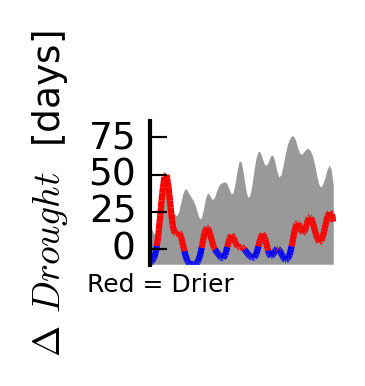
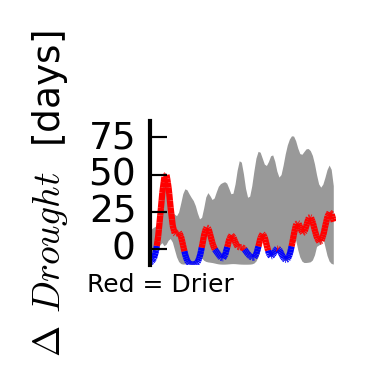
update for water deficit

Changed region(s): [[0.6932, 0.6218, 0.9041, 0.6839], [0.4219, 0.6218, 0.5123, 0.6839], [0.5425, 0.6528, 0.5726, 0.6839]]

diff --git a/maplot.py b/maplot.py
@@ -288,7 +288,7 @@ def get_data():
     SimulatedHistoric = {
             'Reference':                '_HistoricRef_Run0',
             'HighClim':                 '_HistoricHadGEM_Run0',
-            'LowClim':                  '_HistoricGFDL_Run0',
+            'LowClim':                  '_HistoricRef_Run0'          # !!Change to _HistoricGFDL_Run0 once GFDL historical is fixed
             }
     return data, scenarios, scenarios_own, SimulatedHistoric
 
@@ -765,8 +765,7 @@ for plot_num in plots_to_plot:
             Q10.update({key:[np.percentile(data_hd1[i][0:59,:], 10.,axis=0) for i in range(12)]})
             data_hd_binary = [compare_rows(data_hd1[i],Q10[key][i]) for i in range(12)]  #1's are drought
             summer_dr_d = [np.sum(data_hd_binary[i][:,260:365],1) for i in range(12)]
-            baseline.update({key:[np.mean(summer_dr_d[i]) for i in range(12)]})
-        
+            baseline.update({key:[np.mean(summer_dr_d[i]) for i in range(12)]})  
         
         data_to_stack = []
         for key in scenarios:
@@ -820,7 +819,6 @@ for plot_num in plots_to_plot:
         file_ex = data_path + 'ET_by_Elevation_(mm)'+file_baseline+'Run0.csv' # Need average for whole WB, in different file
         # Calculate Baseline
         baseline = {}
-        ## WORKING HERE
         for key in SimulatedHistoric:
             data_ET=[mfx(file_nm.replace(file_baseline+'Run0',SimulatedHistoric[key]), column=subbasin_data_ET_col[i], 
                          skip=cst.day_of_year_oct1) for i in range(12)]
@@ -832,49 +830,8 @@ for plot_num in plots_to_plot:
                          skip=cst.day_of_year_oct1)
             data_hd1 = [data_PET[i] - data_ET[i] for i in range(12)]
             wd1 = [np.sum(data_hd1[i][:,:],1) for i in range(12)]
-            baseline = [np.ones(59)*np.average(wd1[i]) for i in range(12)]
-            wd1_smthd = [np.subtract(movingaverage(wd1[i],window), baseline[i])[8:83] for i in range(12)]
-            data_to_stack.append([wd1_smthd[i] for i in range(12)]) 
-
-
-        data_ET  =[mfx(file_nm, column=subbasin_data_ET_col[i], skip=cst.day_of_year_oct1) for i in range(12)]
-        data_PET =[mfx(file_nm, column=subbasin_data_ET_col[i]+1, skip=cst.day_of_year_oct1) for i in range(12)]
-        data_ET[11]  = mfx(file_ex, column=1, skip=cst.day_of_year_oct1)   # Need average for whole WB, in different file
-        data_PET[11] = mfx(file_ex, column=2, skip=cst.day_of_year_oct1)   # Need average for whole WB, in different file
-        data_hd1 = [data_PET[i] - data_ET[i] for i in range(12)]
-        wd1 = [np.sum(data_hd1[i][:,:],1) for i in range(12)]
-        
-        print file_nm.replace(file_baseline,file_high)
-        data_ET=[mfx(file_nm.replace(file_baseline,file_high), column=subbasin_data_ET_col[i], 
-                     skip=cst.day_of_year_oct1) for i in range(12)]
-        data_PET=[mfx(file_nm.replace(file_baseline,file_high), column=subbasin_data_ET_col[i]+1, 
-                     skip=cst.day_of_year_oct1) for i in range(12)]
-        data_ET[11]  = mfx(file_ex.replace(file_baseline,file_high), column=1, 
-                     skip=cst.day_of_year_oct1)   # Need average for whole WB, in different file
-        data_PET[11] = mfx(file_ex.replace(file_baseline,file_high), column=2, 
-                     skip=cst.day_of_year_oct1)   # Need average for whole WB, in different file
-        data_hd2 = [data_PET[i] - data_ET[i] for i in range(12)]
-        wd2 = [np.sum(data_hd2[i][:,:],1) for i in range(12)]
-        
-        file_nm.replace(file_baseline,file_low)
-        data_ET = [mfx(file_nm.replace(file_baseline,file_low), column=subbasin_data_ET_col[i], 
-                       skip=cst.day_of_year_oct1) for i in range(12)]
-        data_PET= [mfx(file_nm.replace(file_baseline,file_low), column=subbasin_data_ET_col[i]+1, 
-                      skip=cst.day_of_year_oct1) for i in range(12)]
-        data_ET[11]  = mfx(file_ex.replace(file_baseline,file_low), column=1, 
-                      skip=cst.day_of_year_oct1)   # Need average for whole WB, in different file
-        data_PET[11] = mfx(file_ex.replace(file_baseline,file_low), column=2, 
-                      skip=cst.day_of_year_oct1)   # Need average for whole WB, in different file
-        data_hd3 = [data_PET[i] - data_ET[i] for i in range(12)]
-        wd3 = [np.sum(data_hd3[i][:,:],1) for i in range(12)]
-        
-        data_avg = [(wd1[i] + wd2[i] + wd3[i]) /3. for i in range(12)]
-        baseline = [np.ones(89)*np.average(data_avg[i][0:10]) for i in range(12)]
+            baseline.update({key:[np.ones(89)*np.average(wd1[i]) for i in range(12)]})
                 
-        # Calculate baseline-subtracted value
-        window = binomial_window(15)
-        wd_smthd = [np.subtract(movingaverage(wd1[i],window), baseline[i])[8:83] for i in range(12)]
-        
         data_to_stack = []
         for key in scenarios:
             data_ET=[mfx(file_nm.replace(file_baseline+'Run0',scenarios[key]), column=subbasin_data_ET_col[i], 
@@ -887,8 +844,11 @@ for plot_num in plots_to_plot:
                          skip=cst.day_of_year_oct1)
             data_hd1 = [data_PET[i] - data_ET[i] for i in range(12)]
             wd1 = [np.sum(data_hd1[i][:,:],1) for i in range(12)]
-            wd1_smthd = [np.subtract(movingaverage(wd1[i],window), baseline[i])[8:83] for i in range(12)]
+            wd1_smthd = [np.subtract(movingaverage(wd1[i],window), baseline[scenarios_own[key]][i])[8:83] for i in range(12)]
             data_to_stack.append([wd1_smthd[i] for i in range(12)]) 
+            # Calculate baseline-subtracted value
+            if key == baseline_case:
+                    wd_smthd = [np.subtract(movingaverage(wd1[i],window), baseline[scenarios_own[key]][i])[8:83] for i in range(12)]
         
         data_to_stack = [tuple([data_to_stack[j][i] for j in range(len(data_to_stack))]) for i in range(12)]
         
@@ -925,6 +885,7 @@ for plot_num in plots_to_plot:
 ############  Winter Temperature w mini figs ############    
     elif plot_num == 5:
         plt.close()
+        window = binomial_window(15)
         file_nm = data_path + 'Climate_(Subbasin)'+file_baseline+'Run0.csv'
         file_nmWB = data_path + 'Climate'+file_baseline+'Run0.csv'
        
